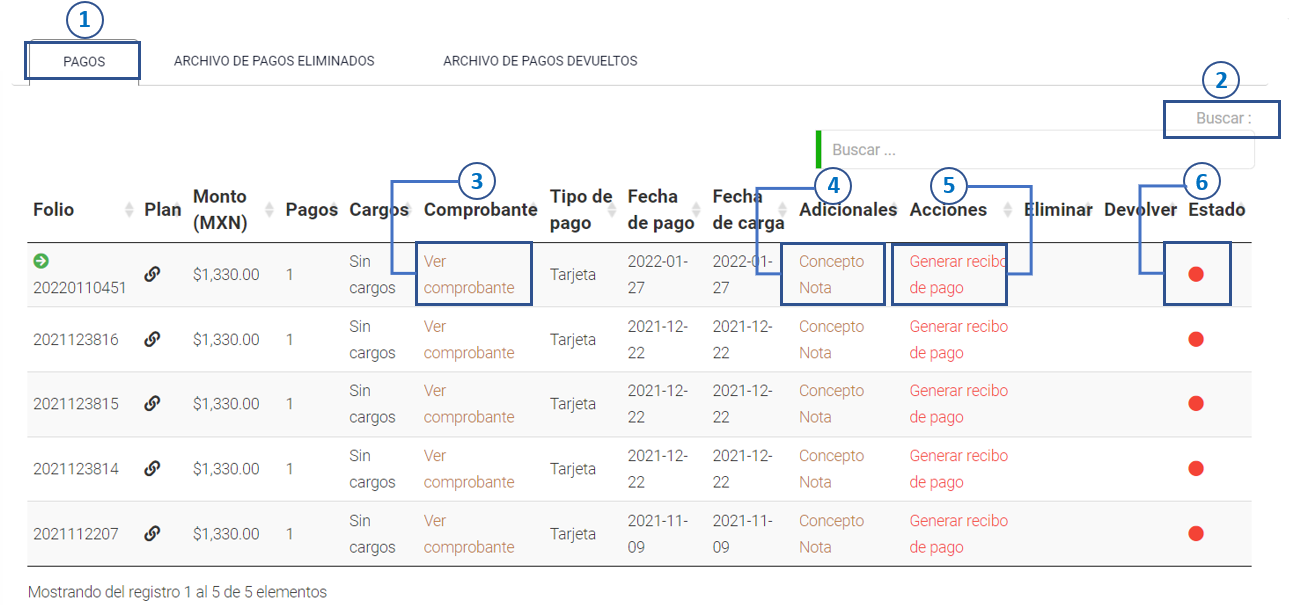
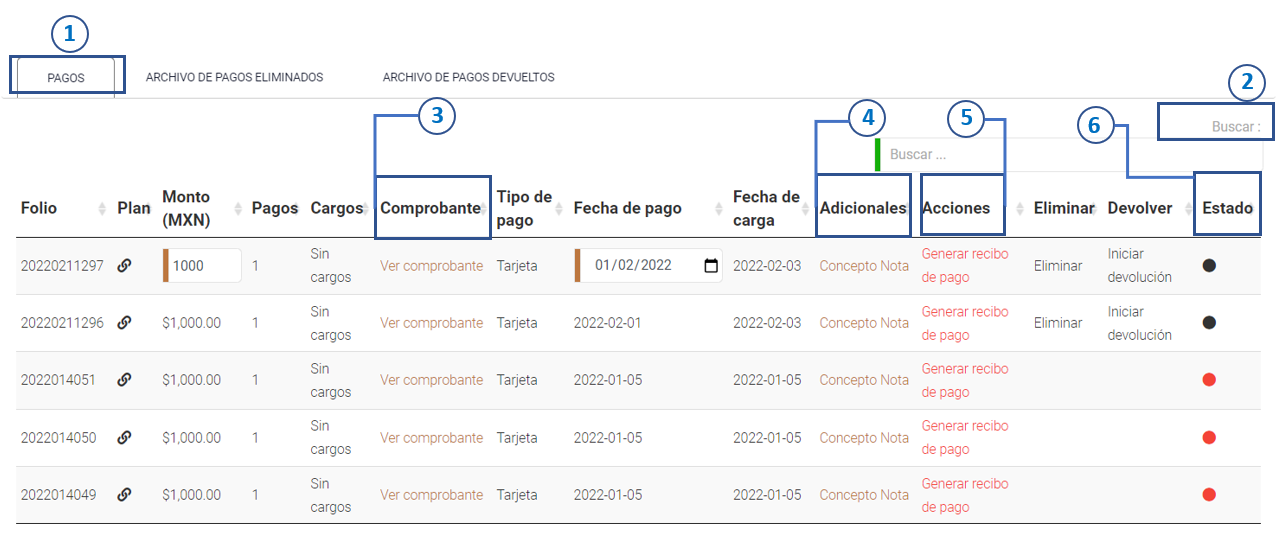
modificaciones jueves 03 feb

diff --git a/docs/sede.rst b/docs/sede.rst
@@ -423,7 +423,54 @@ lo solicite al administrador.
 
    Al abrir el archivo descargado se visualizará de la siguiente manera:
 
-   |image22|
+   |image22|  
+
+   6.\ **Estado:** Cómo podemos apreciar en la imagen, hay una marca color **Rojo**
+   la cuál significa que el pago se ha **Conciliado** por lo que la información 
+   de ese pago ya no puede ser modificada. Cuando la marca está en color **Negro**
+    quiere decir que aún **No está conciliado** dicho pago, por lo tanto habrá datos
+    que si pueden ser modificados dando clic sobre el dato requerido:  
+
+   |image40|  
+
+   1.Plan: Si el icono está en color naranja, quiere decir que aún no se ha asignado un
+   plan, si se hace clic sobre él aparecerá una lista para seleccionar algún plan creado
+   para este alumno.  
+   2.Monto: Si se desea modificar este dado simplemente se hace doble clic sobre el monto
+    para insertar el monto correcto. 
+
+   |image41|  
+
+   3.Comprobante: En caso de que no se haya subido un recibo de pago, se podrá hacer 
+   dando doble clic sobre la leyenda *Sin comprobante*, inmediatamente aparecerá 
+   un botón llamado **Seleccionar archivo** para adjuntar el recibo.  
+   4.Fecha de pago: Este campo tambien es modificable si se hace doble clic sobre él, 
+   se podrá seleccionar la fecha desde un calendario o manualmente.  
+
+   |image42|  
+
+   5.Concepto/Nota: Al hacer clic sobre esta opción desglosará un menú con la opción de 
+   *Generar un pago* y *Planes de pago*, por último tiene la opción de *Modificar el fólio 
+   impreso*.  
+
+   |image45|  
+
+   Si se selecciona la opción para *Modificar fólio impreso* aparecerá una ventana con la 
+   opción para ingresar la modificación que se desea realizar procediendo a guardar los cambios:  
+
+   |image46|
+
+   6.Eliminar: Únicamente si el pago no ha sido conciliado aparecerá esta opción, la cuál al 
+   seleccionarla aparecerá una ventana indicando que se ingrese el motivo de eliminación y 
+   proceder a eliminar el pago seleccionado:  
+
+   |image43|  
+
+   7.Devolver: De igual manera que el botón de eliminar, solamente aparecerá esta opción si el 
+   pago no se ha conciliado, al seleccionar esta opción aparecerá la siguiente ventana indicando 
+   la leyenda siguiente:  
+
+   |image44|  
 
 Por último, dentro de esta misma ventana en la parte superior nos
 mostrará la sección de **Control de Materias**, donde podremos ver tanto
@@ -589,15 +636,30 @@ partes:
 
    |image33|
 
-   En la parte superior hay un apartado para subir los documentos
+   1.En la parte inferior hay un apartado para subir los documentos
    oficiales del alumno que requiera la institución, tales cómo: CURP,
    acta de nacimiento, etc. Se pueden subir dando clic sobre la flecha o
    arrastrando los archivos con el mouse, del equipo al area marcada.
-   Notaremos que hay 3 opciones del proceso de validación: En
-   validación,Necesita correción y válidado, los cuales varían de
-   acuerdo a la revisión que se realice sobre esa documentación.
+   2.Notaremos que hay 3 opciones del proceso de validación: 
+    - En validación: significa que está en validación, es decir, 
+   aún está en espera de revisión por el personal institucional.
+    - Necesita correción: Una vez revisado cada documento la marca cambiará 
+    a éste color si se tiene que modificar algún documento.
+    - Válidado: Quiere decir que ya están correctos y/o validados.
 
-   |image34|
+   |image34|   
+
+   1.Cada documento tendrá una flecha al lado derecho del título, la 
+   cuál al seleccionarla desglosará una lista para elegir el nombre
+   estándar que debe llevar cada uno. 
+   
+   2.De igual manera notaremos que del lado superior derecho tendrá una 
+   marca color **negro** por lo que indica que está en revisión. 
+
+   3.Por último notaremos que si hacemos clic derecho sobre algún documento
+   nos dará la opción de eliminarlo si así se desea.
+
+   |image38|
 
 6. **Agregar información adicional:** Esta opción nos mostrará un
    formulario para introducir información personal, laboral y escolar
@@ -605,9 +667,9 @@ partes:
    campos seleccionar el botón *Guardar* en caso que se quieran
    conservar los cambios.
 
-::
 
-   ![](/images/informacion-adicional-estatal.png)  
+
+   |image39|  
 
 Si regresamos al contenido original donde se encuentra la información
 del alumno notaremos que en la parte superior aparecerá una tabla del
@@ -676,3 +738,13 @@ los cambios. El botón verde de **Lista de alumnos** nos dirigirá a
 .. |image34| image:: /images/documentos-estatal.png
 .. |image35| image:: /images/nuevo-alumno-estatal.png
 .. |image36| image:: /images/facturacion-estatal.png
+.. |image37| image:: /images/prueba-documentos.png
+.. |image38| image:: /images/lista-nombres-documentos.png
+.. |image39| image:: /images/informacion-adicional-estatal.png
+.. |image40| image:: /images/editables-pagos.png
+.. |image41| image:: /images/plan-monto.png
+.. |image42| image:: /images/comprobante-fecha.png
+.. |image43| image:: /images/eliminar-pago.png
+.. |image44| image:: /images/devolucion.png
+.. |image45| image:: /images/modificar-folio.png
+.. |image46| image:: /images/folio-interno.png

diff --git a/docs/sede.md b/docs/sede.md
@@ -171,7 +171,7 @@ En esta misma área podremos encontrar un apartado para agregar comentarios ó r
 
 - **Comentarios y Acciones:**  
 
-      1. **Comentarios:**Se pueden introducir comentarios acerca de la información del alumno.  
+      1. **Comentarios:** Se pueden introducir comentarios acerca de la información del alumno.  
       2. **Credencial de estudiante:** 
       3. **Nuevo Pago:** Muestra un formulario con los datos del pago del alumno el cuál contiene el área de *Seleccionar archivo* para adjuntar el comprobante de pago, ya sea documento o imagen.
      
@@ -375,7 +375,7 @@ Esta opción se visualiza en el menú del lado izquierdo en **Alumnos**, en esta
 
    6. **Agregar información adicional:** Esta opción nos mostrará un formulario para introducir información personal, laboral y escolar más específica del alumno. Al terminar el correcto llenado de los campos seleccionar el botón *Guardar* en caso que se quieran conservar los cambios.  
 
-    ![](/images/informacion-adicional-estatal.png)  
+      ![](/images/informacion-adicional-estatal.png)  
 
    Si regresamos al contenido original donde se encuentra la información del alumno notaremos que en la parte superior aparecerá una tabla del historial de pagos del alumno explicada anteriormente [aquí](#historial).  
 
